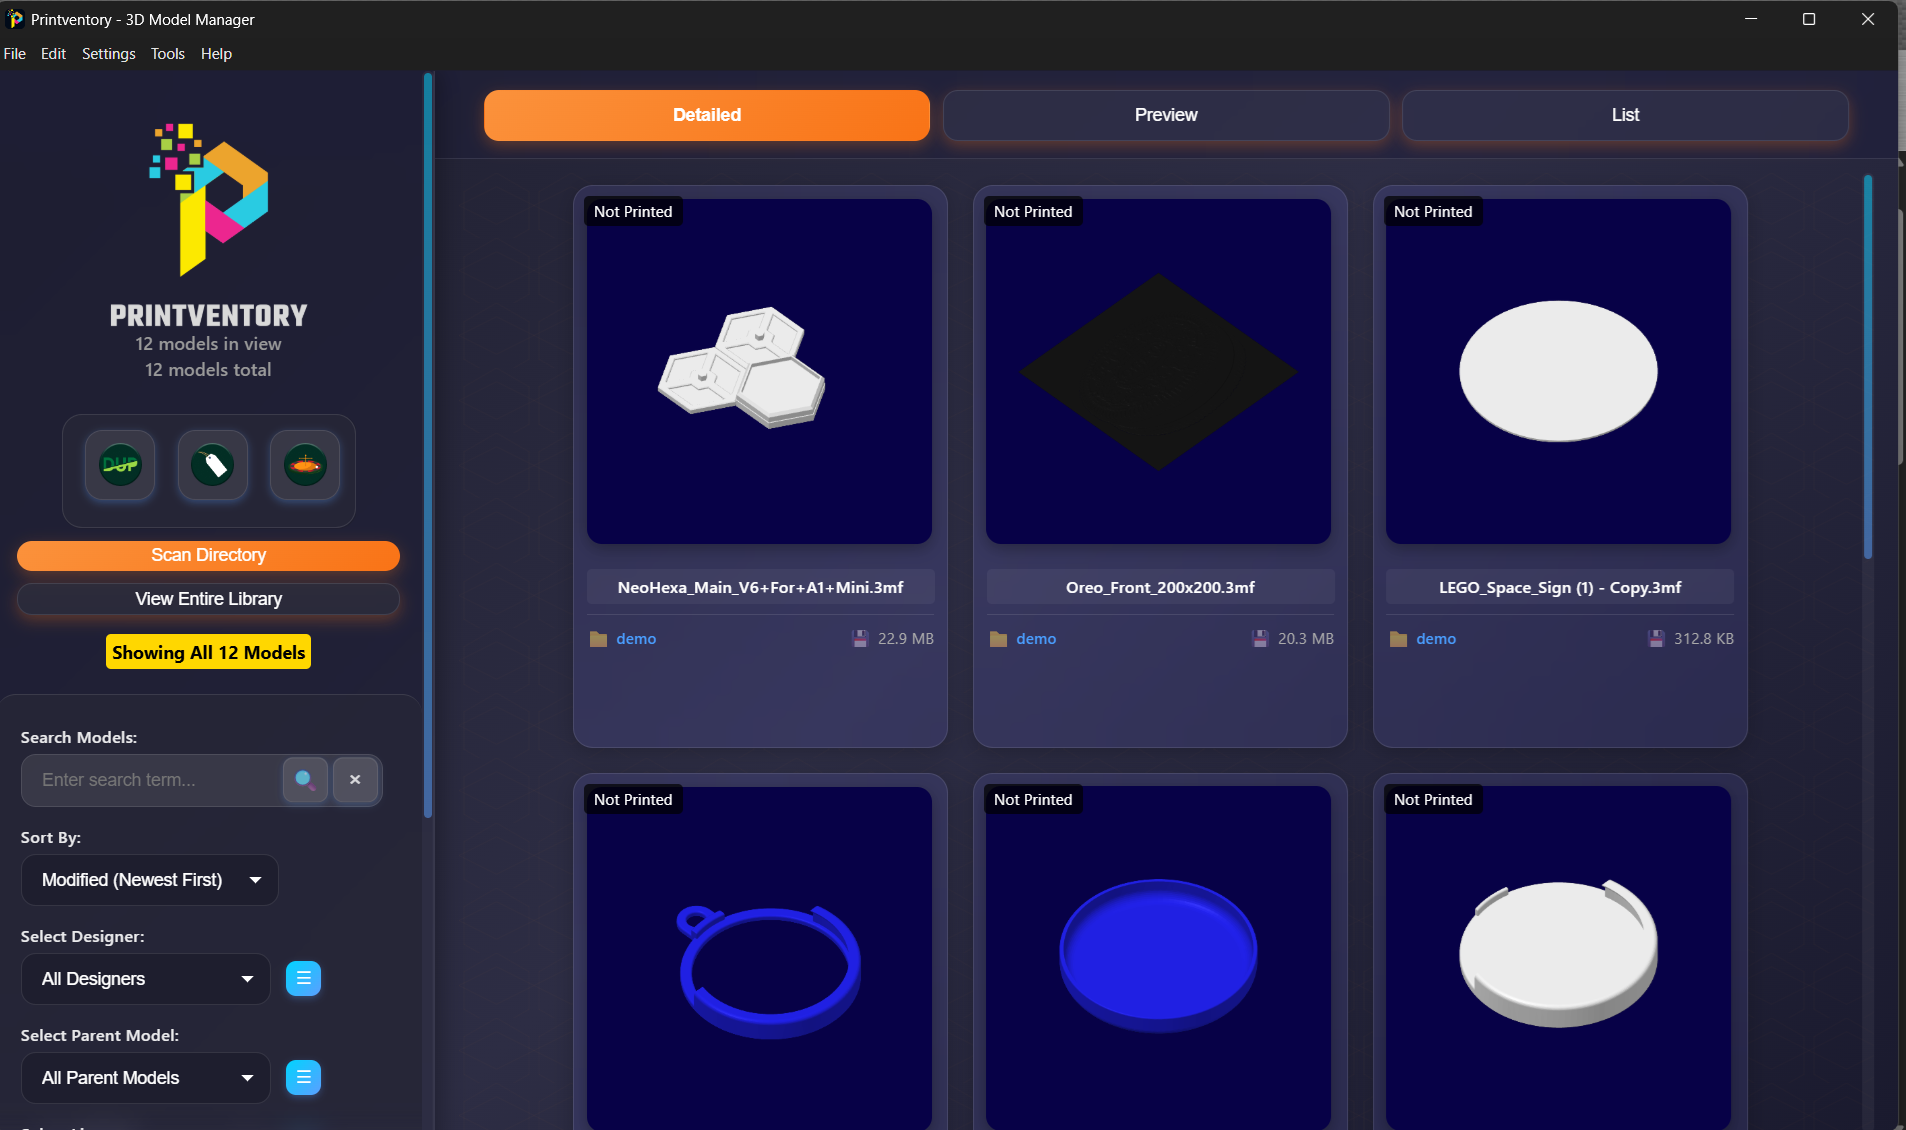
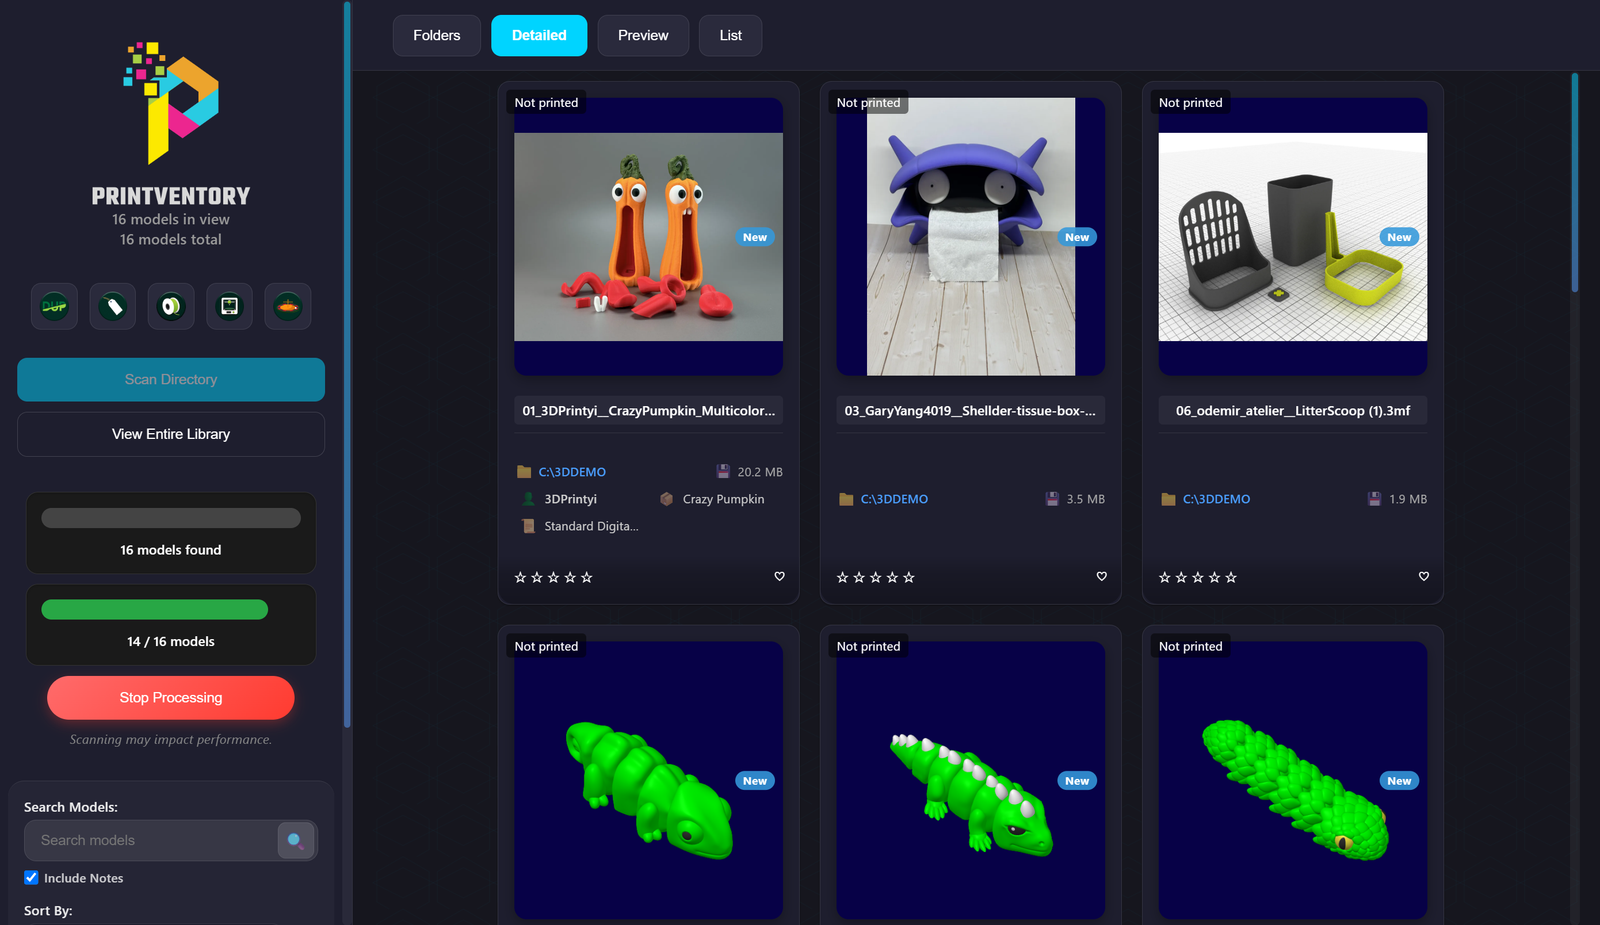
Refresh homepage for Printventory 3.0 features and screenshots.
Replace gallery/hero shots with library, filament, printer, and parts UI, and add a Microsoft Store beta download link.

diff --git a/index.html b/index.html
@@ -4,21 +4,21 @@
   <meta charset="UTF-8">
   <meta name="viewport" content="width=device-width, initial-scale=1.0">
   <title>Printventory — Free Local 3D Model Manager</title>
-  <meta name="description" content="Free and open-source 3D model manager for STL and 3MF libraries. Local-only indexing, AI tagging, duplicate cleanup, and Docker/NAS support for Windows, macOS, and Linux.">
+  <meta name="description" content="Free and open-source 3D model manager for local STL/3MF libraries. Print history, filament catalog, printer &amp; parts tracking, AI tagging, and Docker/NAS support.">
   <meta name="robots" content="index, follow">
   <link rel="canonical" href="https://printventory.com/">
 
   <meta property="og:type" content="website">
   <meta property="og:url" content="https://printventory.com/">
   <meta property="og:title" content="Printventory — Free Local 3D Model Manager">
-  <meta property="og:description" content="Organize your STL and 3MF library locally. Free, open source, AI tagging, and Docker/NAS support.">
-  <meta property="og:image" content="https://printventory.com/2.webp">
+  <meta property="og:description" content="Organize your local 3D library with print history, filament, printers, parts stock, AI tagging, and Docker/NAS support.">
+  <meta property="og:image" content="https://printventory.com/1.webp">
   <meta property="og:site_name" content="Printventory">
 
   <meta name="twitter:card" content="summary_large_image">
   <meta name="twitter:title" content="Printventory — Free Local 3D Model Manager">
-  <meta name="twitter:description" content="Organize your STL and 3MF library locally. Free, open source, AI tagging, and Docker/NAS support.">
-  <meta name="twitter:image" content="https://printventory.com/2.webp">
+  <meta name="twitter:description" content="Organize your local 3D library with print history, filament, printers, parts stock, AI tagging, and Docker/NAS support.">
+  <meta name="twitter:image" content="https://printventory.com/1.webp">
 
   <script type="application/ld+json">
   {
@@ -32,9 +32,9 @@
       "price": "0",
       "priceCurrency": "USD"
     },
-    "description": "Free and open-source local 3D model manager for STL and 3MF libraries with AI tagging and Docker support.",
+    "description": "Free and open-source local 3D model manager with print history, filament catalog, printer and parts tracking, AI tagging, and Docker support.",
     "url": "https://printventory.com/",
-    "image": "https://printventory.com/2.webp",
+    "image": "https://printventory.com/1.webp",
     "author": {
       "@type": "Organization",
       "name": "TechJeeper Designs"
@@ -78,19 +78,25 @@
         <div class="carousel-slide active">
           <picture>
             <source srcset="1.webp" type="image/webp">
-            <img src="1.png" alt="" width="1600" height="948" fetchpriority="high">
+            <img src="1.png" alt="" width="1600" height="925" fetchpriority="high">
           </picture>
         </div>
         <div class="carousel-slide">
           <picture>
             <source srcset="2.webp" type="image/webp">
-            <img src="2.png" alt="" width="1600" height="943" loading="lazy">
+            <img src="2.png" alt="" width="1600" height="925" loading="lazy">
           </picture>
         </div>
         <div class="carousel-slide">
           <picture>
             <source srcset="3.webp" type="image/webp">
-            <img src="3.png" alt="" width="1600" height="902" loading="lazy">
+            <img src="3.png" alt="" width="1600" height="925" loading="lazy">
+          </picture>
+        </div>
+        <div class="carousel-slide">
+          <picture>
+            <source srcset="4.webp" type="image/webp">
+            <img src="4.png" alt="" width="1600" height="925" loading="lazy">
           </picture>
         </div>
       </div>
@@ -101,7 +107,7 @@
         <img src="logo.png" alt="Printventory" class="logo" style="max-width: 400px; width: 100%;">
       </div>
       <h1>Your local 3D model library, finally organized</h1>
-      <p>Free and open source. Index STL and 3MF files where they already live — with search, tags, duplicates, and AI-assisted organization.</p>
+      <p>Free and open source. Index models where they already live — then track prints, filament, printers, and parts without uploading a thing.</p>
       <p class="hero-subline">Files never leave your machine · Windows, macOS, Linux &amp; Docker</p>
       <div class="hero-cta">
         <a href="public.html" class="download-button">Download Free</a>
@@ -111,22 +117,42 @@
 
     <div class="features">
       <div class="feature-section">
-        <h3>File<br>Management</h3>
+        <h3>Local<br>Library</h3>
         <ul>
-          <li>Scan directories for STL and 3MF files</li>
-          <li>View thumbnails of your 3D models</li>
-          <li>Sort models by name, size, or date</li>
-          <li>Instant global search of your library</li>
+          <li>Scan directories for STL, 3MF, STEP, OBJ, and more</li>
+          <li>Thumbnails, folders, tags, designers, and notes</li>
+          <li>Instant search and filters across large libraries</li>
+          <li>Find duplicates by content hash</li>
         </ul>
       </div>
 
       <div class="feature-section">
-        <h3>Model<br>Organization</h3>
+        <h3>Print<br>Lifecycle</h3>
         <ul>
-          <li>Tag models for easy categorization</li>
-          <li>Assign designers to models</li>
-          <li>Track print status</li>
-          <li>Add source URLs and notes</li>
+          <li>Statuses from Want and Queued through Printed or Failed</li>
+          <li>Log prints with date, quantity, notes, and filament</li>
+          <li>Filter and sort by last printed or print count</li>
+          <li>Track reprints with Printed ×N badges</li>
+        </ul>
+      </div>
+
+      <div class="feature-section">
+        <h3>Filament<br>&amp; Spoolman</h3>
+        <ul>
+          <li>Build a filament catalog and assign spools to models</li>
+          <li>Filter the library by material and color</li>
+          <li>Optional pull-only sync from Spoolman</li>
+          <li>Prefill filaments when you log a print</li>
+        </ul>
+      </div>
+
+      <div class="feature-section">
+        <h3>Printers<br>&amp; Parts</h3>
+        <ul>
+          <li>Save printers with maintenance logs and reminders</li>
+          <li>Network scan for Klipper, PrusaLink, and Bambu</li>
+          <li>Track screws, bearings, and hardware stock</li>
+          <li>Deduct parts when you log a print</li>
         </ul>
       </div>
 
@@ -141,31 +167,12 @@
       </div>
 
       <div class="feature-section">
-        <h3>Multi-Edit<br>Features</h3>
-        <ul>
-          <li>Select multiple models for batch editing</li>
-          <li>Bulk update designer, source, and status</li>
-          <li>Select all visible models with one click</li>
-          <li>Filter models by various attributes</li>
-        </ul>
-      </div>
-
-      <div class="feature-section">
-        <h3>Duplicate<br>Management</h3>
-        <ul>
-          <li>Find duplicate files based on content hash</li>
-          <li>Compare duplicates with thumbnails</li>
-          <li>Easily remove duplicate files</li>
-        </ul>
-      </div>
-
-      <div class="feature-section">
-        <h3>Docker &amp;<br>NAS</h3>
+        <h3>Docker, NAS<br>&amp; Extension</h3>
         <ul>
           <li>Run server mode on Synology, Unraid, and more</li>
-          <li>Index network storage without a desktop GUI</li>
+          <li>HTTPS/SSL and installable PWA for phones</li>
+          <li>Browser extension inbox for model pages</li>
           <li>Official Docker Hub image available</li>
-          <li>Built for large home libraries</li>
         </ul>
       </div>
 
@@ -175,25 +182,25 @@
           <button type="button" class="gallery-item" onclick="openLightbox(0)" aria-label="Open library grid screenshot">
             <picture>
               <source srcset="1.webp" type="image/webp">
-              <img src="1.png" alt="Library grid view of 3D models" loading="lazy" width="1600" height="948">
+              <img src="1.png" alt="Library grid view of 3D models" loading="lazy" width="1600" height="925">
             </picture>
           </button>
-          <button type="button" class="gallery-item" onclick="openLightbox(1)" aria-label="Open model detail screenshot">
+          <button type="button" class="gallery-item" onclick="openLightbox(1)" aria-label="Open filament manager screenshot">
             <picture>
               <source srcset="2.webp" type="image/webp">
-              <img src="2.png" alt="Model detail and metadata panel" loading="lazy" width="1600" height="943">
+              <img src="2.png" alt="Filament Manager with Spoolman sync" loading="lazy" width="1600" height="925">
             </picture>
           </button>
-          <button type="button" class="gallery-item" onclick="openLightbox(2)" aria-label="Open search and tags screenshot">
+          <button type="button" class="gallery-item" onclick="openLightbox(2)" aria-label="Open printer manager screenshot">
             <picture>
               <source srcset="3.webp" type="image/webp">
-              <img src="3.png" alt="Search and tag filtering" loading="lazy" width="1600" height="902">
+              <img src="3.png" alt="Printer Manager with network detect" loading="lazy" width="1600" height="925">
             </picture>
           </button>
-          <button type="button" class="gallery-item" onclick="openLightbox(3)" aria-label="Open organization tools screenshot">
+          <button type="button" class="gallery-item" onclick="openLightbox(3)" aria-label="Open parts manager screenshot">
             <picture>
               <source srcset="4.webp" type="image/webp">
-              <img src="4.png" alt="Organization and batch editing tools" loading="lazy" width="1562" height="952">
+              <img src="4.png" alt="Parts Manager tracking hardware stock" loading="lazy" width="1600" height="925">
             </picture>
           </button>
         </div>

diff --git a/beta.html b/beta.html
@@ -59,6 +59,10 @@
                     <img src="win.png" alt="">
                     Download Beta for Windows
                 </a>
+                <a href="https://apps.microsoft.com/detail/9N0KTXW14622" target="_blank" rel="noopener noreferrer" class="download-button" data-goatcounter-click="download-beta-microsoft-store">
+                    <img src="win.png" alt="">
+                    Microsoft Store
+                </a>
                 <a href="https://printventory.techjeeper.com/printventory-2.1.15-universal.dmg" id="download-mac" class="download-button" data-goatcounter-click="download-beta-macos">
                     <img src="mac.png" alt="">
                     Download Beta for MacOS
